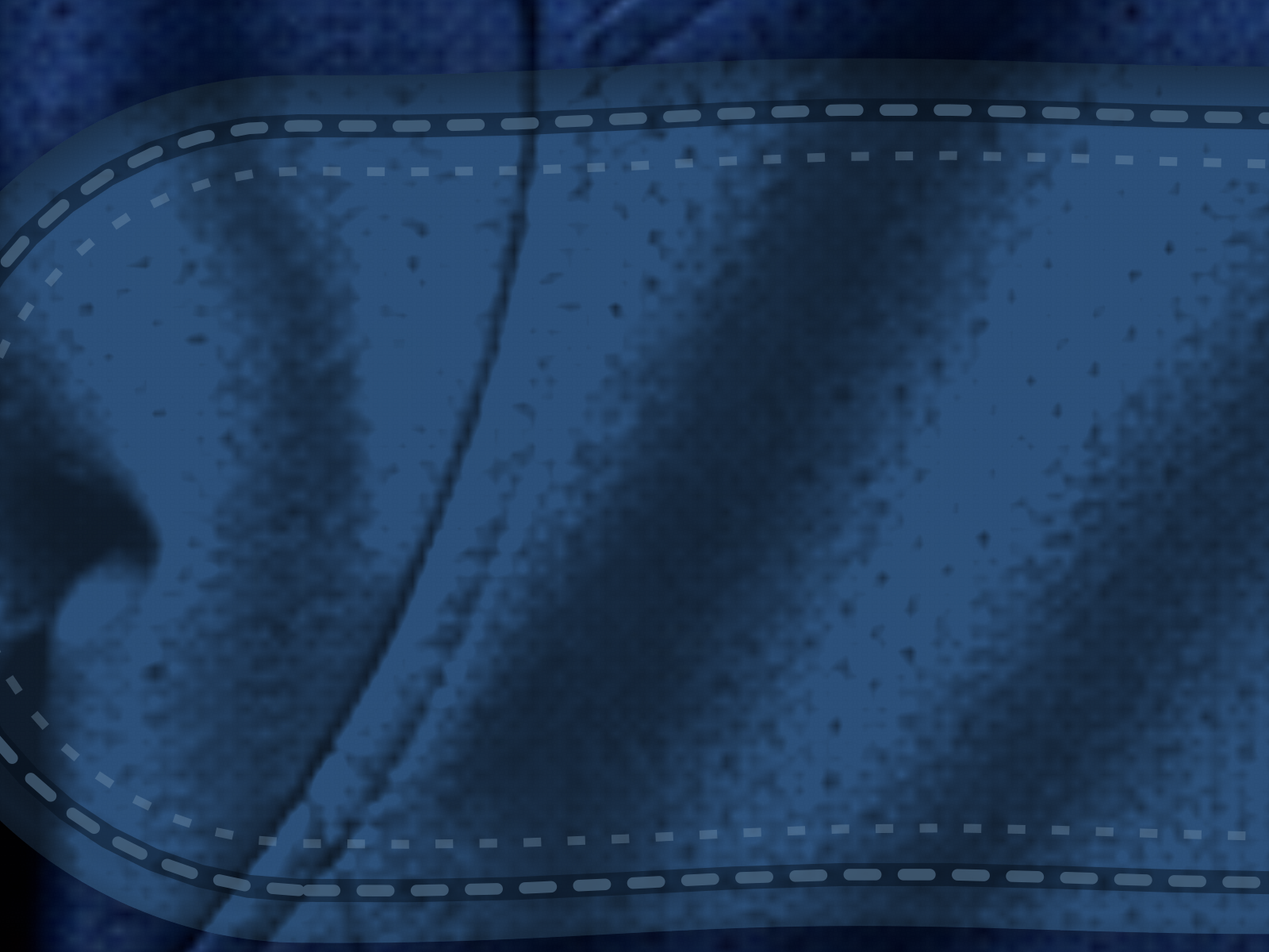
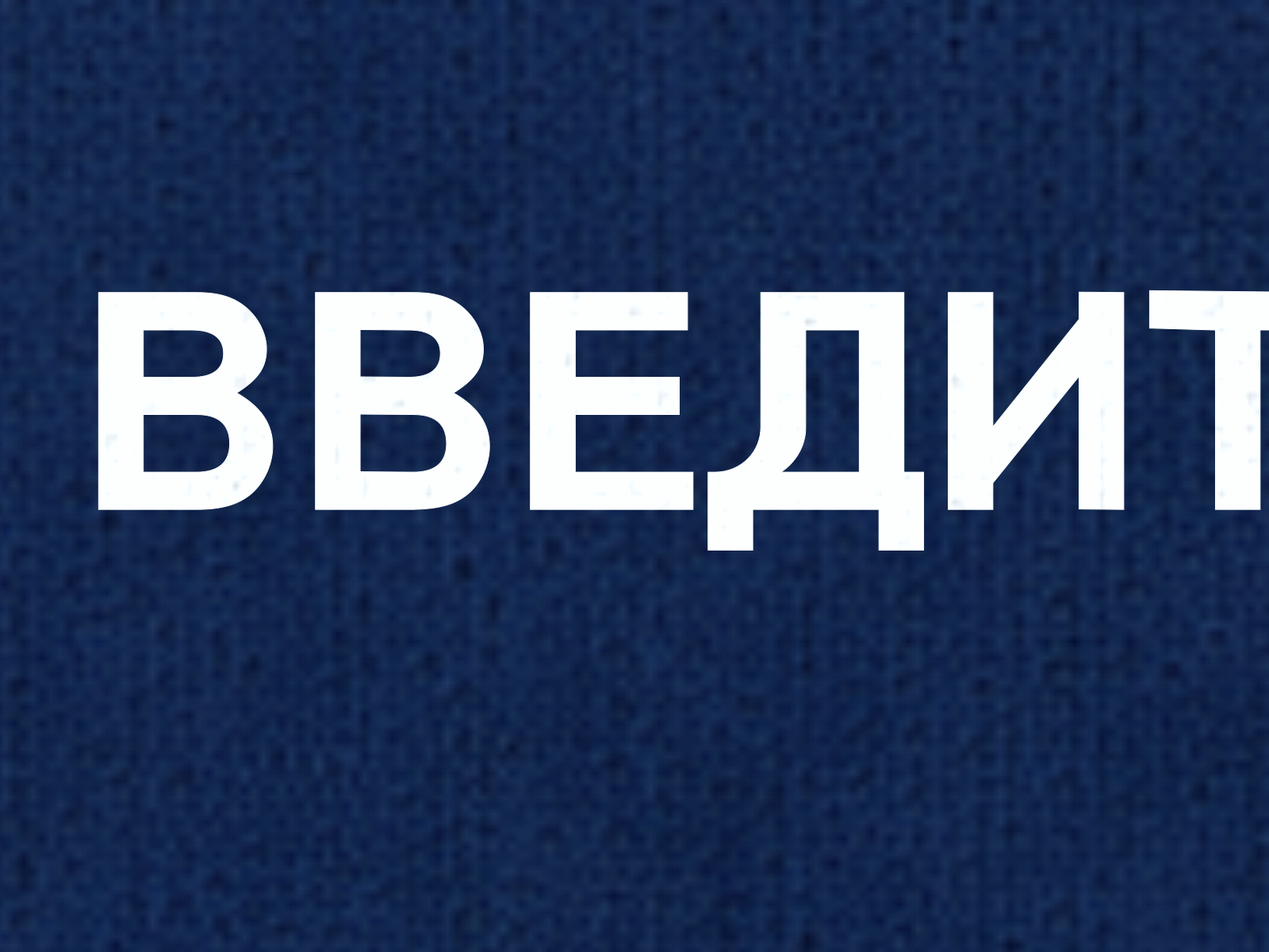
Place authentication lettering directly in the jersey and remove field outlines
Remove oval inset surfaces, edge shadows and stitch rows. Render cue lettering with the jersey lighting and slight cloth deformation while leaving every pixel outside the letters unchanged. Use the same lettering renderer for native placeholders and export; retain the borderless native editor and its scene-derived background.

Disable standard focus cues in all button and input classes and keep keyboard focus visible through button tone and the text caret. Record the user's permanent no-dashed-or-dotted-control-outlines rule in App_C#/AGENTS.md. Refresh previews, transition GIF, native 32K lettering crop and documentation.

Validation: Windows Release build with 0 errors/warnings; login and registration at 960 and 1920; full-patch versus band rendering at Full HD, 4K and native 32K crops (max channel delta 1/255); unchanged jersey outside glyphs; minimum sampled lettering contrast 10.92:1; source scan found no dashed borders or focus rectangles. Interactive Windows UI was not run in this Linux environment.

diff --git a/COURSE_3/EP_TPaD_DB/App_C#/App/JerseyFieldDrawing.cs b/COURSE_3/EP_TPaD_DB/App_C#/App/JerseyFieldDrawing.cs
@@ -1,97 +1,91 @@
 using System.Drawing.Drawing2D;
+using System.Drawing.Imaging;
+using System.Runtime.InteropServices;
 
 namespace LP_PopovD_App
 {
+    // Только надпись на ткани. У области ввода нет отдельной поверхности или контура.
     internal static class JerseyFieldDrawing
     {
         internal static readonly Color Ink = Color.FromArgb(235, 241, 245);
-        internal static readonly Color CueInk = Color.FromArgb(204, 220, 231);
-        internal static readonly Color FallbackFill = Color.FromArgb(24, 46, 70);
+        internal static readonly Color FallbackFill = Color.FromArgb(9, 26, 51);
 
-        private static float Ripple(float x, RectangleF bounds)
-            => .55f * MathF.Sin((x - bounds.X) * .047f + bounds.Y * .031f)
-                + .25f * MathF.Sin((x - bounds.X) * .113f + bounds.Y * .019f);
-
-        // Плоскость вставки использует свет и складки той же ткани, что и спинка.
-        internal static void Shade(float x, float y, float scale, RectangleF bounds, float alpha,
-            ref float red, ref float green, ref float blue)
+        internal static void DrawCue(Graphics g, RectangleF bounds, string text, RectangleF? viewport = null)
         {
-            if (x < bounds.Left - 4 || x > bounds.Right + 4 || y < bounds.Top - 5 || y > bounds.Bottom + 5) return;
-            float radius = bounds.Height / 2;
-            float py = y - (bounds.Top + radius) + Ripple(x, bounds);
-            float px = Math.Max(0, Math.Abs(x - (bounds.Left + bounds.Width / 2)) - (bounds.Width / 2 - radius));
-            float distance = MathF.Sqrt(px * px + py * py) - radius;
-            if (distance > 3) return;
-            float normalY = Math.Clamp(py / radius, -1, 1);
-            float coverage = Math.Clamp(.5f - distance * scale, 0, 1);
-            float clothAlpha = alpha / 255;
-            float light = Math.Clamp(.52f + (red * .2126f + green * .7152f + blue * .0722f) / Math.Max(1, clothAlpha) / 34,
-                .58f, 1.65f);
-            float upper = (1 - normalY) / 2;
-            float insetShadow = Math.Max(0, 1 + distance / 5) * (.11f + .28f * upper);
-            float lowerLip = Math.Max(0, 1 - Math.Abs(distance + 1.4f) / 1.1f) * Math.Max(0, normalY) * .12f;
-            float lighting = light * (1 - insetShadow) + lowerLip;
-            red += (26 * lighting * clothAlpha - red) * coverage;
-            green += (48 * lighting * clothAlpha - green) * coverage;
-            blue += (73 * lighting * clothAlpha - blue) * coverage;
-            if (distance > 0)
-            {
-                float contact = 1 - (1 - distance / 3) * .18f * (1 - coverage);
-                red *= contact; green *= contact; blue *= contact;
-            }
-        }
+            if (string.IsNullOrEmpty(text)) return;
+            RectangleF visible = viewport.HasValue ? RectangleF.Intersect(bounds, viewport.Value) : bounds;
+            if (visible.IsEmpty) return;
+            using Matrix transform = g.Transform;
+            float[] m = transform.Elements;
+            float sx = m[0], sy = m[3], dx = m[4], dy = m[5];
+            if (sx <= 0 || sy <= 0 || Math.Abs(m[1]) > .001f || Math.Abs(m[2]) > .001f)
+                throw new NotSupportedException("Для надписи нужен прямой масштаб без поворота.");
+            int left = (int)MathF.Floor(visible.Left * sx + dx), top = (int)MathF.Floor(visible.Top * sy + dy);
+            int width = (int)MathF.Ceiling(visible.Right * sx + dx) - left;
+            int height = (int)MathF.Ceiling(visible.Bottom * sy + dy) - top;
+            if (width < 1 || height < 1) return;
 
-        private static GraphicsPath Seam(RectangleF bounds, float inset)
-        {
-            bounds.Inflate(-inset, -inset);
-            float radius = bounds.Height / 2, left = bounds.Left + radius, right = bounds.Right - radius;
-            float centerY = bounds.Top + radius;
-            List<PointF> points = new();
-            void Add(float x, float y) => points.Add(new PointF(x, y - Ripple(x, bounds)));
-            for (int i = 0; i <= 24; i++)
+            using FontFamily family = new(RinkTypography.FamilyName);
+            using StringFormat centered = new()
             {
-                float angle = MathF.PI / 2 + MathF.PI * i / 24;
-                Add(left + radius * MathF.Cos(angle), centerY + radius * MathF.Sin(angle));
-            }
-            for (float x = left + 8; x < right; x += 8) Add(x, bounds.Top);
-            for (int i = 0; i <= 24; i++)
-            {
-                float angle = -MathF.PI / 2 + MathF.PI * i / 24;
-                Add(right + radius * MathF.Cos(angle), centerY + radius * MathF.Sin(angle));
-            }
-            for (float x = right - 8; x > left; x -= 8) Add(x, bounds.Bottom);
-            GraphicsPath path = new();
-            path.AddLines(points.ToArray()); path.CloseFigure();
-            return path;
-        }
-
-        internal static void DrawStitches(Graphics g, RectangleF bounds, bool focused = false)
-        {
-            using GraphicsPath outer = Seam(bounds, 3.8f);
-            using Pen channel = new(Color.FromArgb(110, 3, 12, 24), 1.7f);
-            g.DrawPath(channel, outer);
-            using Pen thread = new(focused ? Color.FromArgb(204, 143, 199, 225) : Color.FromArgb(150, 91, 121, 149), .85f)
-            {
-                DashPattern = new[] { 2.3f, 2.4f }, DashOffset = bounds.Y % 5, StartCap = LineCap.Round, EndCap = LineCap.Round
+                Alignment = StringAlignment.Center, LineAlignment = StringAlignment.Center,
+                FormatFlags = StringFormatFlags.NoWrap
             };
-            g.DrawPath(thread, outer);
-            using GraphicsPath inner = Seam(bounds, 7.2f);
-            using Pen second = new(Color.FromArgb(focused ? 136 : 86, 125, 155, 180), .65f)
+            using GraphicsPath letters = new();
+            letters.AddString(text, family, (int)FontStyle.Bold, 22, bounds, centered);
+            if (letters.PointCount == 0) return;
+            PointF[] points = letters.PathPoints;
+            float centerY = bounds.Top + bounds.Height / 2;
+            float centerLight = JerseyFabricDrawing.InkLight(bounds.Left + bounds.Width / 2, centerY);
+            for (int i = 0; i < points.Length; i++)
             {
-                DashPattern = new[] { 2f, 3f }, DashOffset = 1.6f
-            };
-            g.DrawPath(second, inner);
-        }
+                points[i].Y += Math.Clamp((JerseyFabricDrawing.InkLight(points[i].X, centerY) - centerLight) * 2, -.5f, .5f);
+                // Масштабируем координаты один раз: смена полосы не меняет сглаживание контура.
+                points[i].X = (float)((double)points[i].X * sx + dx - left);
+                points[i].Y = (float)((double)points[i].Y * sy + dy - top);
+            }
+            using GraphicsPath conformed = new(points, letters.PathTypes, letters.FillMode);
 
-        internal static void DrawCue(Graphics g, RectangleF bounds, string text)
-        {
-            using Font font = new(RinkTypography.FamilyName, 21, FontStyle.Bold, GraphicsUnit.Pixel);
-            using StringFormat centered = new() { Alignment = StringAlignment.Center, LineAlignment = StringAlignment.Center };
-            using SolidBrush shadow = new(Color.FromArgb(115, 3, 10, 22));
-            using SolidBrush ink = new(CueInk);
-            RectangleF offset = bounds; offset.Offset(0, .7f);
-            g.DrawString(text, font, shadow, offset, centered);
-            g.DrawString(text, font, ink, bounds, centered);
+            // Маска ограничена видимой полосой, в том числе при экспорте 32K.
+            using Bitmap print = new(width, height, PixelFormat.Format32bppPArgb);
+            print.SetResolution(96, 96);
+            using (Graphics mask = Graphics.FromImage(print))
+            {
+                mask.SmoothingMode = SmoothingMode.AntiAlias;
+                mask.PixelOffsetMode = PixelOffsetMode.HighQuality;
+                mask.FillPath(Brushes.White, conformed);
+            }
+            BitmapData data = print.LockBits(new Rectangle(Point.Empty, print.Size),
+                ImageLockMode.ReadWrite, PixelFormat.Format32bppPArgb);
+            try
+            {
+                int[] row = new int[width];
+                for (int y = 0; y < height; y++)
+                {
+                    IntPtr address = IntPtr.Add(data.Scan0, y * data.Stride);
+                    Marshal.Copy(address, row, 0, width);
+                    float wy = (top + y + .5f - dy) / sy;
+                    for (int x = 0; x < width; x++)
+                    {
+                        int alpha = (int)((uint)row[x] >> 24);
+                        if (alpha == 0) continue;
+                        float wx = (left + x + .5f - dx) / sx;
+                        float light = JerseyFabricDrawing.InkLight(wx, wy);
+                        int r = (int)Math.Clamp(Ink.R * light, 0, 255) * alpha / 255;
+                        int green = (int)Math.Clamp(Ink.G * light, 0, 255) * alpha / 255;
+                        int b = (int)Math.Clamp(Ink.B * light, 0, 255) * alpha / 255;
+                        row[x] = alpha << 24 | r << 16 | green << 8 | b;
+                    }
+                    Marshal.Copy(row, 0, address, width);
+                }
+            }
+            finally { print.UnlockBits(data); }
+            GraphicsState state = g.Save();
+            g.ResetTransform();
+            g.InterpolationMode = InterpolationMode.NearestNeighbor;
+            g.PixelOffsetMode = PixelOffsetMode.None;
+            g.DrawImageUnscaled(print, left, top);
+            g.Restore(state);
         }
     }
 }

diff --git a/COURSE_3/EP_TPaD_DB/App_C#/App/CapsuleInput.cs b/COURSE_3/EP_TPaD_DB/App_C#/App/CapsuleInput.cs
@@ -8,11 +8,22 @@ namespace LP_PopovD_App
     internal sealed class CapsuleInput : UserControl
     {
         private readonly TextBox input = new();
-        private readonly Label cue = new();
+        private readonly ClothCue cue = new();
         private Font? inputFont;
         private Font? cueFont;
         private float textPixels;
         private IntPtr fabricBrush;
+        protected override bool ShowFocusCues => false;
+
+        private sealed class ClothCue : Label
+        {
+            protected override void OnPaintBackground(PaintEventArgs e) { }
+            protected override void OnPaint(PaintEventArgs e)
+            {
+                if (Parent is CapsuleInput field) field.PaintCue(e.Graphics, Bounds);
+                else base.OnPaint(e);
+            }
+        }
 
         [Browsable(false), DesignerSerializationVisibility(DesignerSerializationVisibility.Hidden)]
         internal RectangleF SceneBounds { get; set; } = new(560, 330, 480, 64);
@@ -41,7 +52,7 @@ namespace LP_PopovD_App
             cue.Text = placeholder;
             cue.TextAlign = ContentAlignment.MiddleCenter;
             cue.BackColor = Color.Transparent;
-            cue.ForeColor = JerseyFieldDrawing.CueInk;
+            cue.ForeColor = JerseyFieldDrawing.Ink;
             cue.TabStop = false;
             cue.Cursor = Cursors.IBeam;
             cue.AccessibleName = placeholder;
@@ -61,8 +72,8 @@ namespace LP_PopovD_App
             if (Math.Abs(textPixels - pixels) < 0.05f) return;
             textPixels = pixels;
             Font? oldInput = inputFont, oldCue = cueFont;
-            inputFont = new Font(RinkTypography.FamilyName, pixels, FontStyle.Regular, GraphicsUnit.Pixel);
-            cueFont = new Font(RinkTypography.FamilyName, Math.Max(12, 21 * scale), FontStyle.Bold, GraphicsUnit.Pixel);
+            inputFont = new Font(RinkTypography.FamilyName, pixels, FontStyle.Bold, GraphicsUnit.Pixel);
+            cueFont = new Font(RinkTypography.FamilyName, pixels, FontStyle.Bold, GraphicsUnit.Pixel);
             input.Font = inputFont;
             cue.Font = cueFont;
             oldInput?.Dispose();
@@ -100,13 +111,22 @@ namespace LP_PopovD_App
         {
             OnPaintBackground(e);
             base.OnPaint(e);
-            if (Width < 3 || Height < 3 || !ContainsFocus) return;
-            GraphicsState state = e.Graphics.Save();
-            e.Graphics.SmoothingMode = SmoothingMode.AntiAlias;
-            e.Graphics.ScaleTransform(Width / SceneBounds.Width, Height / SceneBounds.Height);
-            e.Graphics.TranslateTransform(-SceneBounds.X, -SceneBounds.Y);
-            JerseyFieldDrawing.DrawStitches(e.Graphics, SceneBounds, focused: true);
-            e.Graphics.Restore(state);
+        }
+
+        private void PaintCue(Graphics g, Rectangle localBounds)
+        {
+            if (Parent is not Form1 form) return;
+            Rectangle pixels = new(Left + localBounds.Left, Top + localBounds.Top, localBounds.Width, localBounds.Height);
+            form.PaintScene(g, pixels);
+            RectangleF canvas = RinkDrawing.GetCanvasBounds(form.ClientSize);
+            float scale = canvas.Width / RinkDrawing.Width;
+            GraphicsState state = g.Save();
+            g.TranslateTransform(canvas.X - pixels.X, canvas.Y - pixels.Y);
+            g.ScaleTransform(scale, scale);
+            RectangleF viewport = new((pixels.X - canvas.X) / scale, (pixels.Y - canvas.Y) / scale,
+                pixels.Width / scale, pixels.Height / scale);
+            JerseyFieldDrawing.DrawCue(g, SceneBounds, cue.Text, viewport);
+            g.Restore(state);
         }
 
         // Стандартный EDIT сохраняет каретку, выделение, Tab, IME и маскировку пароля.

diff --git a/COURSE_3/EP_TPaD_DB/App_C#/App/JerseyFabricDrawing.cs b/COURSE_3/EP_TPaD_DB/App_C#/App/JerseyFabricDrawing.cs
@@ -106,7 +106,19 @@ namespace LP_PopovD_App
             }
         }
 
-        internal static void Draw(Graphics g, RectangleF? viewport, RectangleF[]? fields = null)
+        internal static float InkLight(float x, float y)
+        {
+            material ??= new Fabric();
+            Fabric fabric = material;
+            float u = fabric.Crop.Left + (x - BodyBounds.X) * fabric.Crop.Width / BodyBounds.Width - .5f;
+            float v = fabric.Crop.Top + (y - BodyBounds.Y) * fabric.Crop.Height / BodyBounds.Height - .5f;
+            fabric.Read(u, v, out float alpha, out float r, out float green, out float b);
+            if (alpha < 16) return 1;
+            float luminance = (r * .2126f + green * .7152f + b * .0722f) * 255 / alpha;
+            return Math.Clamp(.77f + luminance * .01f, .80f, 1.08f);
+        }
+
+        internal static void Draw(Graphics g, RectangleF? viewport)
         {
             material ??= new Fabric();
             Fabric fabric = material;
@@ -138,9 +150,6 @@ namespace LP_PopovD_App
                             float wx = (left + x + .5f - dx) / sx;
                             float u = fabric.Crop.Left + (wx - BodyBounds.X) * sourceScaleX - .5f;
                             fabric.Read(u, v, out float a, out float r, out float green, out float b);
-                            if (a > 16 && fields != null)
-                                foreach (RectangleF field in fields)
-                                    JerseyFieldDrawing.Shade(wx, wy, Math.Min(sx, sy), field, a, ref r, ref green, ref b);
                             if (a > 16 && detail > 0)
                             {
                                 // Тонкое плетение строится в целевых пикселях, а не увеличивается из PNG.

diff --git a/COURSE_3/EP_TPaD_DB/App_C#/App/JerseyDrawing.cs b/COURSE_3/EP_TPaD_DB/App_C#/App/JerseyDrawing.cs
@@ -35,10 +35,7 @@ namespace LP_PopovD_App
                 return;
             }
             RectangleF[] inputs = InputBounds(registration);
-            JerseyFabricDrawing.Draw(g, viewport, inputs);
-            foreach (RectangleF field in inputs)
-                if (!viewport.HasValue || viewport.Value.IntersectsWith(field))
-                    JerseyFieldDrawing.DrawStitches(g, field);
+            JerseyFabricDrawing.Draw(g, viewport);
 
             using Font title = new(RinkTypography.FamilyName, 28, FontStyle.Bold, GraphicsUnit.Pixel);
             using SolidBrush white = new(Color.FromArgb(239, 247, 252));
@@ -55,7 +52,7 @@ namespace LP_PopovD_App
                 ? new[] { "ВВЕДИТЕ ЛОГИН", "ВВЕДИТЕ ПАРОЛЬ", "ВВЕДИТЕ ЭЛЕКТРОННУЮ ПОЧТУ" }
                 : new[] { "ВВЕДИТЕ ЛОГИН", "ВВЕДИТЕ ПАРОЛЬ" };
             for (int i = 0; i < inputs.Length; i++)
-                JerseyFieldDrawing.DrawCue(g, inputs[i], prompts[i]);
+                JerseyFieldDrawing.DrawCue(g, inputs[i], prompts[i], viewport);
             DrawCapsule(g, SubmitBounds, registration ? "ЗАРЕГИСТРИРОВАТЬСЯ" : "ВОЙТИ", true);
             DrawCapsule(g, BackBounds, "НАЗАД", false);
         }

diff --git a/COURSE_3/EP_TPaD_DB/App_C#/App/RinkMenuButton.cs b/COURSE_3/EP_TPaD_DB/App_C#/App/RinkMenuButton.cs
@@ -7,6 +7,7 @@ namespace LP_PopovD_App
     {
         private bool hovered;
         private bool pressed;
+        protected override bool ShowFocusCues => false;
 
         public RinkMenuButton()
         {
@@ -58,7 +59,7 @@ namespace LP_PopovD_App
             {
                 detail.SmoothingMode = SmoothingMode.AntiAlias;
                 detail.PixelOffsetMode = PixelOffsetMode.HighQuality;
-                DrawButton(detail, hovered, pressed, Focused && ShowFocusCues);
+                DrawButton(detail, hovered, pressed, Focused);
             }
             g.InterpolationMode = InterpolationMode.NearestNeighbor;
             g.PixelOffsetMode = PixelOffsetMode.None;

diff --git a/COURSE_3/EP_TPaD_DB/App_C#/README.md b/COURSE_3/EP_TPaD_DB/App_C#/README.md
@@ -30,7 +30,7 @@
 ![Экран входа](Login_Preview.png)
 
 Кнопка **ВОЙТИ** открывает отдельный экран с задней стороной хоккейной майки.
-На её спине расположены два длинных овальных поля: логин и пароль.
+На её спине расположены две области ввода прямо на ткани: логин и пароль.
 Подсказка исчезает при фокусе, после чего можно вводить текст.
 Если поле осталось пустым, подсказка возвращается после ухода фокуса.
 
@@ -42,15 +42,18 @@
 Майка использует фотореалистическую основу: тяжёлая сетчатая ткань, естественные складки
 на рукавах и спинке, усиленные плечевые швы, вязаный воротник, объёмные манжеты и подгибка.
 Мягкая тень отделяет ткань от льда. Все поля целиком помещаются на широкой спинке.
-Поля оформлены как вшитые овальные вставки в тон майки. Их материал сохраняет освещение,
-сетчатую фактуру и складки спинки; по краям проходят две строчки, а внутренняя тень
-придаёт краю небольшую глубину. Светлые подсказки и введённый текст располагаются прямо на ткани.
-При фокусе строчка становится светлее. Нативный TextBox получает фон из того же фрагмента сцены
-через кисть Windows GDI; сплошная прямоугольная заливка под текстом не используется.
+Ввод расположен непосредственно в поверхности майки, как надпись с фамилией или номером игрока.
+Отдельных овальных вставок, плашек, контуров и швов вокруг ввода нет. Подсказки имеют лёгкую
+деформацию и оттенок печати, рассчитанные по фактуре и освещению ткани. Меняются только пиксели букв;
+сама майка во всей области ввода остаётся неизменной. При фокусе подсказка исчезает и появляется каретка.
+Нативный TextBox получает исходный фон майки через кисть Windows GDI, без отдельной заливки под текстом.
 Фон кисти обновляется при перемещении, изменении размеров поля и обновлении сцены;
 GDI-объекты освобождаются.
-[Jersey_Fields_Detail_32K.png](Jersey_Fields_Detail_32K.png) показывает край тканевой вставки
-и строчки в масштабе 1:1: это фрагмент 1600 × 1200 из отрисовки 30720 × 17280.
+[Jersey_Fields_Detail_32K.png](Jersey_Fields_Detail_32K.png) показывает надпись на ткани
+в масштабе 1:1: это фрагмент 1600 × 1200 из отрисовки 30720 × 17280.
+
+**Постоянное правило пользователя:** у полей и кнопок запрещены пунктирные, прерывистые и точечные
+контуры во всех состояниях, включая фокус с клавиатуры. Правило закреплено в [AGENTS.md](AGENTS.md).
 В крупном экспорте мелкое плетение дополнительно рассчитывается в целевых пикселях;
 отрисовывается только видимая полоса, без выделения памяти под всю майку в 32K.
 [Jersey_Detail_32K.png](Jersey_Detail_32K.png) — фрагмент 1600 × 1200 из кадра
@@ -198,10 +201,11 @@ JPEG поддерживается до 15360 пикселей по ширине;
 - Проверены обязательность полей и формат электронной почты.
 - Для новой майки проверено попадание полей на непрозрачную ткань и совпадение отрисовки
   одним фрагментом и полосами в Full HD, 4K и на фрагменте 32K.
-- Для вшитых полей проверены общий материал в UI и экспорте, читаемость подсказок,
-  строчки и стыки полос с включёнными вставками.
-- Минимальный измеренный контраст подсказок на ткани — 5,90:1. При сравнении цельной отрисовки
-  и полос разница сглаживания отдельных пикселей строчки не превышает 2 из 255.
+- Для ввода на ткани проверены читаемость надписей, стыки полос и точное сохранение
+  всех пикселей майки за пределами букв в Full HD, 4K и на фрагменте 32K.
+- Минимальный измеренный контраст внутри букв — 10,92:1; при сравнении цельного фрагмента
+  с отрисовкой полосами максимальная разница канала составляет 1 из 255.
+- Проверено отсутствие контурных строчек, прерывистых рамок и стандартных focus rectangle в коде элементов ввода и кнопок.
 - Отрисованы 25 кадров пролёта камеры со снегом, собран GIF-пример.
 
 Само окно WinForms в Windows в этой среде не запускалось.

diff --git a/COURSE_3/EP_TPaD_DB/App_C#/AGENTS.md b/COURSE_3/EP_TPaD_DB/App_C#/AGENTS.md
@@ -1,0 +1,14 @@
+# Правила оформления приложения «Территория хоккея»
+
+Постоянные требования пользователя к последующим изменениям этого приложения:
+
+- Не добавлять пунктирные, прерывистые или точечные линии по краям полей ввода и кнопок.
+  Запрет действует во всех состояниях: обычном, при наведении, нажатии и фокусе с клавиатуры.
+- Не использовать стандартный Windows focus rectangle и не имитировать его строчкой или швом.
+  Кнопки обозначают фокус изменением тона, текстовые поля — кареткой.
+- Вход и регистрация: ввод находится непосредственно на ткани майки, как надпись игрока.
+  У полей нет отдельной овальной панели, плашки, рамки, контурного шва или тени панели.
+  Нельзя возвращать такие панели, делая их прозрачными или меняя оттенок.
+- Фактура, складки и освещение самой майки продолжаются через область ввода без изменений.
+  Реальные элементы ввода должны сохранять редактирование, Tab и маскировку пароля.
+- Все файлы приложения сохранять в COURSE_3/EP_TPaD_DB/App_C# этого репозитория.
